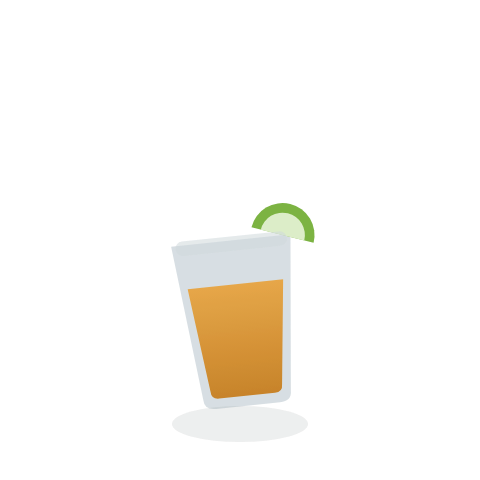
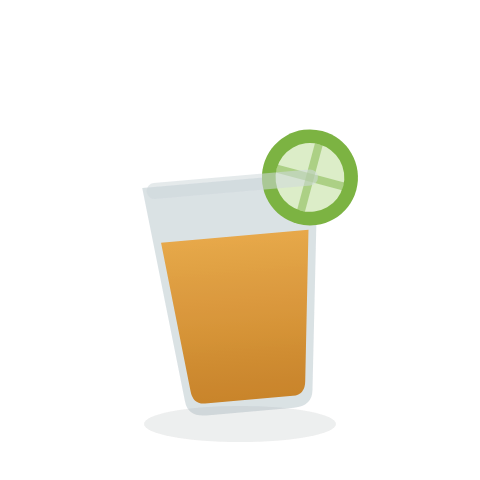
Enlarge shot motif to match other glass sizes
The shot glass drew only in the bottom ~half of the 120x120 canvas
(~34x53 vs peers' ~48-80 x 86-105), so recipes like 'Coquito Shot'
rendered visibly smaller than every other card. Redraw it as a taller
tapered shot glass filling the frame top-to-bottom, with a garnish rising
into the upper canvas (v0 lime wheel, v1 layered coquito + cinnamon stick).

Measured all 34 motifs' rendered bounding boxes via headless Chromium
getBBox; shot was the sole outlier small on both axes. Add a repeatable
measure:motifs script for future checks. Regenerate shot OG PNGs.

Bump SW cache to zauberkoch-v40.

Changed region(s): [[0.2812, 0.25, 0.75, 0.875]]

diff --git a/frontend/scripts/measure-motifs.tsx b/frontend/scripts/measure-motifs.tsx
@@ -1,0 +1,65 @@
+/** Measure the tight bounding box of every card motif (viewBox 0..120).
+ * Reports, per motif+variant, the subject bbox with and without the ground
+ * shadow, so we can spot motifs that under-fill the 120x120 canvas. */
+
+import { renderToStaticMarkup } from 'react-dom/server';
+import { chromium } from '@playwright/test';
+
+import { MOTIF_VARIANTS, RecipeMotif, type Motif } from '../src/components/recipe/RecipeMotif';
+
+const MOTIFS: Motif[] = [
+  'highball', 'tumbler', 'coupe', 'tiki', 'martini', 'wine', 'flute', 'mule',
+  'shot', 'mug', 'beer', 'margarita', 'punch',
+  'pasta', 'bowl', 'suppe', 'pfanne', 'pizza', 'salat', 'burger', 'fisch',
+  'steak', 'dessert', 'taco', 'auflauf', 'pancakes', 'sandwich',
+  'sushi', 'kuchen', 'eis', 'spiess', 'dumpling', 'wrap', 'brot',
+];
+const SEEDS = ['', 'a', 'b'];
+
+const browser = await chromium.launch();
+const page = await browser.newPage({ viewport: { width: 480, height: 480 } });
+
+type Row = { name: string; x: number; y: number; w: number; h: number; wNG: number; hNG: number; yNG: number };
+const rows: Row[] = [];
+
+for (const motif of MOTIFS) {
+  for (let v = 0; v < (MOTIF_VARIANTS[motif] ?? 1); v += 1) {
+    const svg = renderToStaticMarkup(<RecipeMotif motif={motif} seed={SEEDS[v]} size={120} />);
+    await page.setContent(`<!doctype html><style>*{margin:0}</style>${svg}`);
+    const m = await page.evaluate(() => {
+      const svgEl = document.querySelector('svg')!;
+      const all = svgEl.getBBox();
+      // ground shadow = the faint ellipse near cy≈106; drop it for the "no-ground" box
+      let minX = Infinity, minY = Infinity, maxX = -Infinity, maxY = -Infinity;
+      svgEl.querySelectorAll('*').forEach((el) => {
+        const g = el as SVGGraphicsElement;
+        if (typeof g.getBBox !== 'function') return;
+        if (el.tagName === 'ellipse') {
+          const cy = parseFloat((el as SVGEllipseElement).getAttribute('cy') || '0');
+          const ry = parseFloat((el as SVGEllipseElement).getAttribute('ry') || '0');
+          if (cy > 100 && ry < 6) return; // ground shadow
+        }
+        if (el.tagName === 'g' || el.tagName === 'defs' || el.tagName === 'svg') return;
+        let b;
+        try { b = g.getBBox(); } catch { return; }
+        if (b.width === 0 && b.height === 0) return;
+        minX = Math.min(minX, b.x); minY = Math.min(minY, b.y);
+        maxX = Math.max(maxX, b.x + b.width); maxY = Math.max(maxY, b.y + b.height);
+      });
+      return { all: { x: all.x, y: all.y, w: all.width, h: all.height },
+               ng: { x: minX, y: minY, w: maxX - minX, h: maxY - minY } };
+    });
+    rows.push({ name: `${motif}-v${v}`, x: m.all.x, y: m.all.y, w: m.all.w, h: m.all.h,
+                wNG: m.ng.w, hNG: m.ng.h, yNG: m.ng.y });
+  }
+}
+await browser.close();
+
+const f = (n: number) => n.toFixed(1).padStart(6);
+console.log('motif           |  bbox(all) x/y/w/h            | subject(no ground) x/y/w/h');
+for (const r of rows.sort((a, b) => a.hNG - b.hNG)) {
+  console.log(
+    `${r.name.padEnd(15)} | ${f(r.x)} ${f(r.y)} ${f(r.w)} ${f(r.h)}  | ` +
+    `${f(r.x)} ${f(r.yNG)} ${f(r.wNG)} ${f(r.hNG)}`,
+  );
+}

diff --git a/frontend/src/components/recipe/RecipeMotif.tsx b/frontend/src/components/recipe/RecipeMotif.tsx
@@ -1075,31 +1075,44 @@ function Sandwich({ id, ...svg }: SvgProps) {
 function Shot({ id, v = 0, ...svg }: SvgProps) {
   return (
     <svg {...svg}>
-      <Ground rx={17} />
-      <g transform="rotate(-6 60 82)">
+      <Ground rx={24} />
+      <g transform="rotate(-5 60 74)">
         <defs>
           <linearGradient id={`${id}-l`} x1="0" y1="1" x2="0" y2="0">
             <stop offset="0" stopColor="#c77c1a" />
             <stop offset="1" stopColor="#e8a33d" />
           </linearGradient>
         </defs>
-        <path d="M45 60 L49 99 Q49 101.5 52 101.5 L68 101.5 Q71 101.5 71 99 L75 60 Z" fill="#90a4ae" opacity="0.35" />
+        {/* Tapered shot glass — filled bigger so it reads at card size. */}
+        <path d="M38 45 L44 99 Q44.4 103 49 103 L71 103 Q75.6 103 76 99 L82 45 Z" fill="#90a4ae" opacity="0.32" />
         {v === 0 ? (
           <>
-            <path d="M48 71 L51 97 Q51 99 53 99 L67 99 Q69 99 69 97 L72 71 Z" fill={`url(#${id}-l)`} opacity="0.92" />
-            <g transform="translate(73 60) rotate(20)">
-              <path d="M-8 0 A8 8 0 0 1 8 0 Z" fill="#7cb342" />
-              <path d="M-5.6 0 A5.6 5.6 0 0 1 5.6 0 Z" fill="#dcedc8" />
+            <path d="M41.5 59 L45.6 96.5 Q45.9 100 49 100 L71 100 Q74.1 100 74.4 96.5 L78.5 59 Z" fill={`url(#${id}-l)`} opacity="0.92" />
+            <g transform="translate(80 46) rotate(20)">
+              <circle r="12" fill="#7cb342" />
+              <circle r="8.6" fill="#dcedc8" />
+              <rect x="-1" y="-8.6" width="2" height="17.2" fill="#7cb342" opacity="0.5" />
+              <rect x="-8.6" y="-1" width="17.2" height="2" fill="#7cb342" opacity="0.5" />
             </g>
           </>
         ) : (
           <>
-            <path d="M49.5 86 L51 97 Q51 99 53 99 L67 99 Q69 99 69 97 L70.5 86 Z" fill="#3e2723" />
-            <rect x="49.5" y="77" width="21" height="9" fill="#a1723b" />
-            <path d="M50 71 L70 71 L69.4 77 L50.6 77 Z" fill="#f5e6c8" />
+            {/* Layered coquito — dark base, cream, foam — with cinnamon stick + nutmeg dusting. */}
+            <path d="M44 82 L46 96.5 Q46.3 100 49.5 100 L70.5 100 Q73.7 100 74 96.5 L76 82 Z" fill="#3e2723" />
+            <rect x="44" y="69" width="32" height="13" fill="#a1723b" />
+            <path d="M42 58 L78 58 L76.5 69 L43.5 69 Z" fill="#f5e6c8" />
+            <g transform="rotate(18 69 44)">
+              <rect x="65.5" y="23" width="7" height="42" rx="3.5" fill="#8a4b22" />
+              <rect x="65.5" y="23" width="7" height="42" rx="3.5" fill="#5c3115" opacity="0.32" />
+            </g>
+            <g fill="#6d4522" opacity="0.7">
+              <circle cx="52" cy="61" r="1.4" />
+              <circle cx="60" cy="63" r="1.4" />
+              <circle cx="68" cy="61" r="1.4" />
+            </g>
           </>
         )}
-        <rect x="46" y="59" width="28" height="3.6" rx="1.8" fill="#cfd8dc" opacity="0.55" />
+        <rect x="39" y="44" width="43" height="4" rx="2" fill="#cfd8dc" opacity="0.55" />
       </g>
     </svg>
   );

diff --git a/frontend/public/sw.js b/frontend/public/sw.js
@@ -1,7 +1,7 @@
 /* Zauberkoch Service Worker.
  * Cache version — BUMP on every app-shell change (+ update CLAUDE.md).
  */
-const CACHE = 'zauberkoch-v39';
+const CACHE = 'zauberkoch-v40';
 const API_CACHE = 'zauberkoch-api-v1';
 const SHELL = ['/', '/icon.svg', '/manifest.webmanifest', '/theme-init.js', '/fonts/inter.woff2', '/fonts/bricolage.woff2'];
 

diff --git a/CLAUDE.md b/CLAUDE.md
@@ -78,7 +78,7 @@ npx playwright test  # E2E-Smoke (lokal)
 - **Transaktions-Mail (2026-07-12)**: `app/services/mailer.py` — Jinja2-Render (`app/templates/email/<name>.{html,txt}.j2`, HTML autoescaped, Text literal) + `smtplib` **multipart/alternative** (SMTP_SSL:465 oder STARTTLS). Env `SMTP_HOST/PORT/USER/PASS/FROM/FROM_NAME`; **leerer `SMTP_HOST` = No-Op + Warnung** (dev/tests fassen nie das Netz an). Prod nutzt den **VPS-Hostinger-Mailer** (`[email redacted]`, Anzeigename „Zauberkoch"; Creds aus `/opt/sicherheits-check-api/.env` wiederverwendbar). **Verify-Mail-Template** = dunkles Marken-Theme, bulletproof (Tabellen, Inline-Styles, VML-Button für Outlook, `color-scheme`-Meta + `[data-ogsc]`-Overrides gegen Gmail-Invertierung, Preheader, Alt-Texte, Impressum-Footer). Preview für Litmus/Mail-Tester: `python -m scripts.email_preview` → `email-preview.html` (gitignored). Der eigentliche Email/Passwort-Auth-Flow (Register/Login/Verify/Reset-Endpoints) ist noch offen — der Mailer + das Template sind die Grundlage.
 - **Keine KI-Bilder** — kuratierte SVG-Motive pro Länderküche.
 - **Brand-Assets (2026-07-12)**: Alle statischen Icons/Social-Images liegen in `frontend/public/` und werden aus EINEM Master-Chef-Hut-Logo (Mint-Welt, identische Geometrie zum in-App `logo`-Glyph) generiert: `npm run gen:assets` (`scripts/generate-assets.mjs`, Playwright-Chromium-Raster, kein `sharp`; ICO handgeschrieben). Output: `icon.svg`, `favicon.ico` (16/32/48), `favicon-16/32.png`, `apple-touch-icon.png` (180, **opak** — iOS rendert Transparenz schwarz), `icon-192/512.png` (purpose `any`), `icon-maskable-512.png` (**opak, Full-Bleed**, Motiv ≤80 % Safe-Zone), `og-v2.png` (1200×630). **Farb-Single-Source-of-Truth** = `COLORS`-Objekt im Script (spiegelt `tokens.css`-Mint: bg `#14531f`, Hut `#b1f0b2`, Band `#a0cfd3`, Funke `#f0b429`). Theme-Wechsel künftig = `COLORS` ändern + `npm run gen:assets`. **OG/Twitter versioniert** (`og-v2.png`, nicht `og.png` — FB/LinkedIn cachen aggressiv). Preview: `scripts/asset-preview.html` (hell+dunkel). `manifest.webmanifest`: `any`+`maskable` getrennt, `theme_color`/`background_color` = `#f7fbf1`. Die **dynamischen** per-Rezept-OG-Bilder (`/api/v1/share/…/og.png`, Backend `og_image.py`) sind davon unberührt. iOS-Splash-Screens bewusst nicht generiert.
-- **PWA**: Service Worker mit versioniertem Cache `zauberkoch-vN` (aktuell **v39**) — bei jedem App-Shell-Change bumpen und Version hier nachführen. Favoriten offline lesbar.
+- **PWA**: Service Worker mit versioniertem Cache `zauberkoch-vN` (aktuell **v40**) — bei jedem App-Shell-Change bumpen und Version hier nachführen. Favoriten offline lesbar.
 - **Icon-System (2026-07-12)**: KEINE Emojis in der UI — alle Symbole über `<Icon name="…" size={…} />` aus `src/components/icons/` (52 Custom-SVG-Glyphen, 24×24-Grid, Registry typisiert via `IconName`; Stil-Spez `ILLUSTRATION_STYLE.md` im Repo-Root). Funktionale Icons monochrom `currentColor` (Sekundärformen per opacity), Marken-Icons `logo`/`wand` mit Tokens (`--c-primary`/`--c-tertiary`/`--icon-gold`). Größen: Nav 24 · Header-Logo 28 · Text-Buttons 18 · Inline-Stats 15–16 · Chip-Affixe 13–14 · Empty-States 48+. Region-Header-Icons stehen als `icon`-Key in `strings.cuisineRegions`. **Bewusste Ausnahme**: die ~110 Zutaten-Emojis der Kessel-Animation (`lib/zutatEmoji.ts`, `ConjureStage.tsx`) bleiben Emojis. Neue Icons: Glyph in `glyphs.tsx` + Testliste in `icons.test.ts`; QA-Galerie: `scripts/icon-gallery.tsx`.
 - **Karten-Motive**: Flache Vektor-Illustrationen pro Gericht-/Glas-Typ in `RecipeMotif.tsx` (35 Kategorien × Varianten = **58 Grafiken**, deterministisch per Titel-Hash `variantFor`: 13 Glas-Typen highball/tumbler/coupe/tiki/martini/wine/flute/mule/shot/mug/beer/margarita/punch + 22 Gericht-Typen pasta/bowl/suppe/pfanne/pizza/salat/burger/fisch/steak/dessert/taco/auflauf/pancakes/sandwich/sushi/kuchen/eis/spiess/dumpling/wrap/brot; Matcher `motifForRecipe`, Cocktails matchen über das `glas`-Feld der Listen-API). Neue Motive IMMER über den Skill `.claude/skills/recipe-motifs/` erzeugen (Stil-Spezifikation + Generator-Prompt) — keine KI-Rasterbilder.
 - **Dauer-Formatierung** immer über `strings.units.duration(min)` (de.ts): Min. → h → Tage („3 Tage" statt „4320 Min."). **Küchen-Chips personalisierbar**: `preferences.kuechen` (Backend-Preferences, max 40, leer = App-Defaults), Editor = `CuisineSheet` (✏️-Chip im Wizard-Schritt 1, ~110er-Katalog in `strings.cuisineRegions`, Suche + Custom-Einträge).